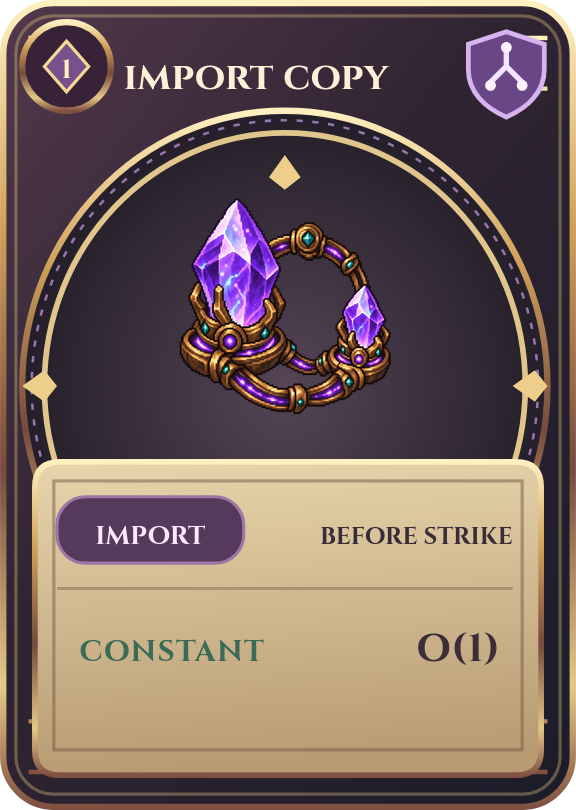
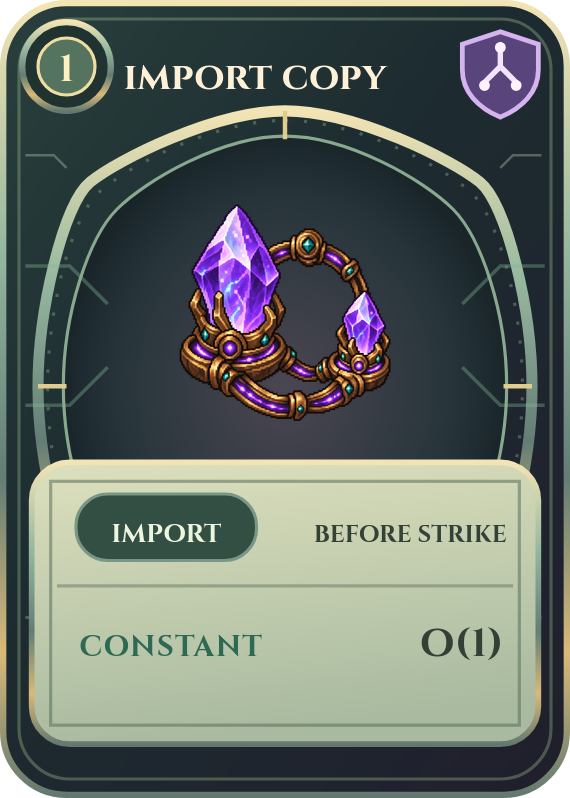
docs(cards): unify Rootglass card and explore wear

diff --git a/Concept/v0.2/cards/README.md b/Concept/v0.2/cards/README.md
@@ -1,14 +1,25 @@
 # Hand-card concepts · v0.2
 
-Four portrait treatments of the same `import copy` card explore a Hearthstone-like collectible frame with a little of Slay the Spire's worn paper and restrained ink. The cost gem and title share one header row. Each concept uses Cinzel, a compact rules plaque, and an oversized oval shard frame; the illustration is fully contained, not clipped by the frame. **Rootglass Halo is the current lead**, with its branching paradigm crest in the upper-right corner.
+The four pristine concepts share the approved Rootglass look: Cinzel lettering, verdigris and warm-metal edging, the upper-right paradigm crest, a softly sculpted halo, and the centered rules plaque. Each keeps the existing shard art at 76 × 76 and the same card dimensions. Only the quiet frame ornament changes between concepts.
 
-| Design | Size | Frame treatment |
-|---|---:|---|
-| [Hearth Medallion](01-hearth-medallion.svg) · [preview](01-hearth-medallion-preview.png) | 190 × 266 | Beveled gold medallion; paradigm color glows behind the shard |
-| [Astral Wheel](02-astral-wheel.svg) · [preview](02-astral-wheel-preview.png) | 188 × 264 | Open astrolabe rings; paradigm color glows behind the shard |
-| [Velvet Oracle](03-velvet-oracle.svg) · [preview](03-velvet-oracle-preview.png) | 192 × 270 | Jewel portrait, grimoire seal, and a small branching crest |
-| [Rootglass Halo](04-rootglass-halo.svg) · [preview](04-rootglass-halo-preview.png) | 190 × 266 | Segmented halo, quiet branching engravings, and a branching crest |
+| Pristine concept | SVG | Preview | Ornament |
+|---|---|---|---|
+| Rootglass Bezel | [SVG](01-hearth-medallion.svg) | [PNG](01-hearth-medallion-preview.png) | Tiny symmetrical metal studs at the halo shoulders |
+| Rootglass Orbit | [SVG](02-astral-wheel.svg) | [PNG](02-astral-wheel-preview.png) | Faint astrolabe orbit behind the shard |
+| Rootglass Etching | [SVG](03-velvet-oracle.svg) | [PNG](03-velvet-oracle-preview.png) | Fine sage corner marks |
+| Rootglass Halo · lead | [SVG](04-rootglass-halo.svg) | [PNG](04-rootglass-halo-preview.png) | The approved smooth halo with mirrored side engravings |
 
-The first two concepts try paradigm color as a soft violet portrait well; the last two use a compact branching crest in the upper-right corner. The crest silhouette can also use pewter for neutral cards, with a simple neutral mark. The shard remains 76 × 76 in the same position. Rootglass's frame has a 156 × 174 SVG-unit outline: its side edges move inward 5 units from the prior draft, while the 45°/135° shoulders extend slightly outward with smoothed transitions. The halo, dotted guide, ticks, and side engravings mirror around the centerline. The `IMPORT` badge is centered in the left half of the plaque. The textbox masks the lower 33% of the frame. The panel keeps only the role, timing, and complexity cues: `IMPORT`, `BEFORE STRIKE`, `CONSTANT`, and `O(1)`. The colored `CONSTANT` label sits on the left, with smaller neutral `O(1)` on the right. The card does not explain its effect, leaving the code as the place to learn what it does.
+## Worn-card studies
 
-These concepts use the existing pixel art at `game/assets/shardrun/card-import-copy.png`. The current hand card is 164 × 227; these are about 15–17% wider and 16–19% taller. [The hand study](hand-hover-study.svg) shows the proposed resting crop with about 35 px hidden below the viewport and a fully raised, 16% enlarged hover card. No live UI or production art is changed here.
+Each study starts from the pristine Rootglass Halo and adds one small cosmetic mark. These are fixed visual examples, not a selected wear rule or a gameplay system.
+
+| Wear study | SVG | Preview | Mark |
+|---|---|---|---|
+| Halo nick | [SVG](worn/01-halo-nick.svg) | [PNG](worn/01-halo-nick-preview.png) | A tiny break in the metal shoulder |
+| Parchment rub | [SVG](worn/02-plaque-rub.svg) | [PNG](worn/02-plaque-rub-preview.png) | A light scuff at the plaque edge |
+| Hairline scuffs | [SVG](worn/03-hairline-scuffs.svg) | [PNG](worn/03-hairline-scuffs-preview.png) | Two faint scratches beside the halo |
+| Soft scorch | [SVG](worn/04-soft-scorch.svg) | [PNG](worn/04-soft-scorch-preview.png) | A small warm stain suggesting a fire trace |
+
+The marks leave the shard, cost, rules labels, and card text unchanged. They show possible directions for purely visual wear that might build with use or respond to an element; when or how that happens remains open.
+
+The [hand-hover study](hand-hover-study.svg) uses the Rootglass design at the proposed fight size: cards rest with about 35 px below the viewport edge, then rise and enlarge on hover. These assets are concepts only; no production UI or card behavior changes here.
